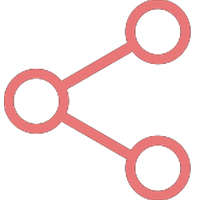
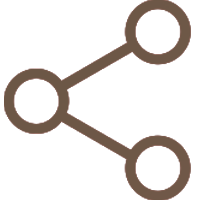
.

Changed region(s): [[0.0, 0.0, 0.96, 1.0]]

diff --git a/sztajl.css b/sztajl.css
@@ -34,11 +34,11 @@ h2{
 }
 
 body{
-    background-image: url('hatter.gif');
+    background-image: url('hatteee.gif');
     background-attachment: fixed;
     background-repeat: no-repeat;
     background-size: cover;
-    color: #eb6c6c;
+    color: #6c5746;
     font-family: andina;
     
 }
@@ -46,8 +46,8 @@ body{
 
 
 body p{
-    background: #eb6c6c;
-    background: linear-gradient(to right, #ea8a8a 0%, #e05252 100%);
+    background: #836953;
+    background: linear-gradient(to right, #7e6755 0%, #6c5746 100%);
     -webkit-background-clip: text;
     -webkit-text-fill-color: transparent;
     max-width: 800px;
@@ -60,8 +60,8 @@ main{
   margin: 3% 3%;
   text-align: center;
   padding: 5%;
-  background-color: rgba(255, 255, 255, 0.853);
-  box-shadow: 0 0 30px rgba(152, 72, 72, 0.532);
+  background-color: rgba(255, 233, 221, 0.853);
+  box-shadow: 0 0 30px rgba(131, 104, 83, 0.761);
   -webkit-border-radius: 15px;
   -moz-border-radius: 15px;
   -ms-border-radius: 15px;
@@ -80,7 +80,7 @@ h1{
     font-weight: 50;
     margin: 0;
     font-size: 50px;
-    color: #E97777;
+    color: #6c5746;
 }
 
 @media screen and (max-width: 400px) {
@@ -111,7 +111,7 @@ p{
 	list-style: none;
 }
 .navlinkek #active{
-  background-color: rgb(253, 167, 167);
+  background-color: #836853;
 }
 .navlinkek #active a{
   color: white;
@@ -124,7 +124,7 @@ p{
 	margin-top: 8px;
 	padding-top: 8px;
 
-	background-color: rgb(255, 208, 208);
+	background-color: #ccab92;
 	-webkit-transition: all 0.5s ease 0s;
 	-moz-transition: all 0.5s ease 0s;
 	-ms-transition: all 0.5s ease 0s;
@@ -142,7 +142,7 @@ p{
 }
 .navlinkek li a{
 	transition: all 0.3s ease 0s;
-	color:#b75050;
+	color:#725b4a;
 	text-decoration: none;
   font-family: aquate;
   font-size: 200%;
@@ -153,7 +153,7 @@ p{
   color: rgb(255, 255, 255);
 }
 .navlinkek li:hover{
-  background-color: rgba(226,99,101,1.00);
+  background-color: #725b4a;
   -webkit-text-fill-color: white;
 }
 .navlinkek li:hover{
@@ -184,12 +184,12 @@ p{
 
 a{
     text-decoration: none;
-    color: #a53939;
+    color: #6c5746;
 }
 
 #keszitoa:hover{
   text-decoration: none;
-  color: #912929;
+  color: #705a49;
   font-weight: 900;
 }
 
@@ -211,7 +211,7 @@ a{
 }
 
 hr{
-    border-top: #E97777 dashed 4px;
+    border-top: #836953 dashed 4px;
     border-bottom: 0px;
     border-right: 0px;
     border-left: 0px;
@@ -228,16 +228,16 @@ hr{
   }
 
   ::-webkit-scrollbar-track {
-    background: #f9a7a7;
+    background: #ba977b;
   }
 
   ::-webkit-scrollbar-thumb {
-    background: #E97777;
+    background: #836953;
     border-radius: 5px;
   }
 
   ::-webkit-scrollbar-thumb:hover {
-    background: #b75050;
+    background: 836853;
     border-radius: 5px;
   }
 
@@ -320,8 +320,8 @@ ul{
 }
 
 .flip-card-inner {
-  border-left: 4px rgba(255,121,124,0.36) dashed;
-  border-right: 4px rgba(255,121,124,0.36) dashed;
+  border-left: 4px #b4937a dashed;
+  border-right: 4px #b4937a dashed;
   position: relative;
   width: 100%;
   height: 100%;
@@ -359,17 +359,17 @@ ul{
   background-color: #bbb;
   color: black;
   border-radius: 20px;
-	background:rgb(255, 208, 208);
+	background:#cba78c;
 }
 
 
 /* Style the back side */
 .flip-card-back {
-  background-color: #ffbdbd;
+  background-color: #9b7b64;
   color: white;
   transform: rotateX(180deg);
   border-radius: 20px;
-  background:rgb(255, 208, 208);
+  background:#bc997f;
   width: 100%;
   padding:0 auto;
 
@@ -419,7 +419,7 @@ ul li{
 	width:100%;
 	transition: all 0.3s ease 0s;
   border-radius: 5px;
-  border-bottom: 2px solid #E97777;
+  border-bottom: 2px solid #836953;
 
 }
 @media screen and (max-width: 500px) {
@@ -429,7 +429,7 @@ ul li{
 }
 .kartyalinkek li a{
 	transition: all 0.3s ease 0s;
-	color:#b75050;
+	color:836853;
 	text-decoration: none;
   font-family: aquate;
   font-size: 200%;
@@ -441,7 +441,7 @@ ul li{
 }
 
 .kartyalinkek li:hover{
-  background-color: rgba(226,99,101,1.00);
+  background-color: #826c5b;
   -webkit-text-fill-color: white;
 }
 
@@ -456,13 +456,12 @@ ul li{
 }
 
 .kartyalinkek1 li{
-  
 	display: inline-block;
 	padding-top: 10px;
 	width:100%;
 	transition: all 0.3s ease 0s;
-border-radius: 5px;
-  border-bottom: 2px solid #E97777;
+  border-radius: 5px;
+  border-bottom: 2px solid #836953;
 
 
 }
@@ -475,7 +474,7 @@ border-radius: 5px;
 
 .kartyalinkek1 li a{
 	transition: all 0.3s ease 0s;
-	color:#b75050;
+	color:836853;
 	text-decoration: none;
   font-family: aquate;
   font-size: 200%;
@@ -487,7 +486,7 @@ border-radius: 5px;
 }
 
 .kartyalinkek1 li:hover{
-  background-color: rgba(226,99,101,1.00);
+  background-color: #826c5b;
   -webkit-text-fill-color: white;
 }
 
@@ -503,7 +502,7 @@ border-radius: 5px;
 	width:100%;
 	transition: all 0.3s ease 0s;
   border-radius: 5px;
-  border-bottom: 2px solid #E97777;
+  border-bottom: 2px solid #836953;
 
 }
 @media screen and (max-width: 500px) {
@@ -513,7 +512,7 @@ border-radius: 5px;
 }
 .kartyalinkek2 li a{
 	transition: all 0.3s ease 0s;
-	color:#b75050;
+	color:836853;
 	text-decoration: none;
   font-family: aquate;
   font-size: 200%;
@@ -525,12 +524,12 @@ border-radius: 5px;
 }
 
 .kartyalinkek2 li:hover{
-  background-color: rgba(226,99,101,1.00);
+  background-color: #826c5b;
   -webkit-text-fill-color: white;
 }
 
 .borderr{
-  background-color: rgb(255, 208, 208);
+  background-color: #ccab92;
   padding-top: 5px;
   padding-bottom: 10px;
   border-radius: 20px;
@@ -540,12 +539,12 @@ border-radius: 5px;
   -moz-border-radius: 20px;
   -ms-border-radius: 20px;
   -o-border-radius: 20px;
-  box-shadow: 0 0 20px #a539391c;
+  box-shadow: 0 0 20px #8368531c;
 }
 .borderrr{
-  color: #b75050;
+  color: 836853;
   margin: 0 auto;
-  background-color: rgb(255, 208, 208);
+  background-color: #ccab92;
   max-width: 280px;
   padding-top: 10px;
   padding-bottom: 10px;
@@ -595,7 +594,7 @@ ol li h1{
 }
 
 .borderrrr{
-  background-color: rgb(255, 208, 208);
+  background-color: #ccab92;
   padding-top: 10px;
   padding-bottom: 10px;
   border-radius: 20px;
@@ -605,11 +604,11 @@ ol li h1{
   -moz-border-radius: 20px;
   -ms-border-radius: 20px;
   -o-border-radius: 20px;
-  box-shadow: 0 0 20px #a539391c;
+  box-shadow: 0 0 20px #8368531c;
 }
 
 #hr{
-  border-top: #E97777 dashed 4px;
+  border-top: #836953 dashed 4px;
   border-bottom: 0px;
   border-right: 0px;
   border-left: 0px;
@@ -621,7 +620,7 @@ ol li h1{
 }
 
 #hr1{
-  border-top: #E97777 dashed 4px;
+  border-top: #836953 dashed 4px;
   border-bottom: 0px;
   border-right: 0px;
   border-left: 0px;
